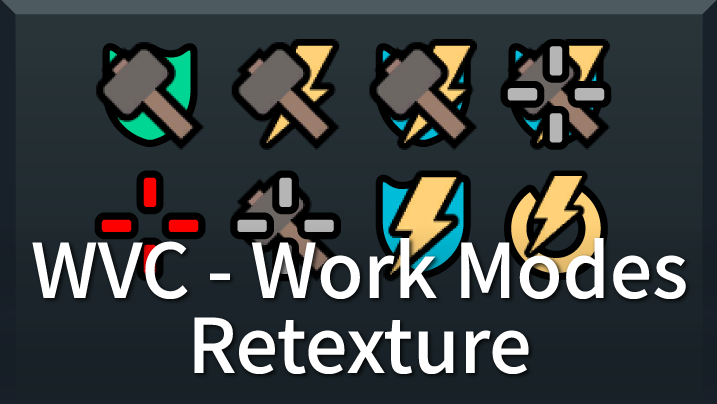
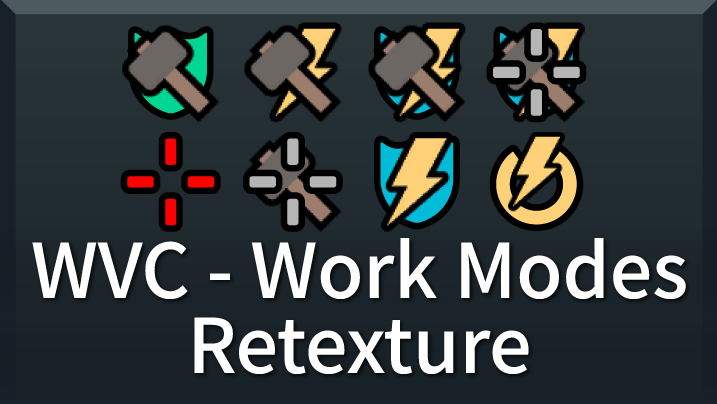
add rimsenal retexture

Changed region(s): [[0.1227, 0.0297, 0.8591, 0.7129]]

diff --git a/_posts/2021-11-30-RimsenalRetexture.md b/_posts/2021-11-30-RimsenalRetexture.md
@@ -1,0 +1,9 @@
+---
+title: "[Retexture] Human Power Generator"
+date: 2021-11-30
+category: [rimworld, mod]
+image: "/assets/images/rimworld/Rimsenal.webp"
+---
+<img src="/assets/images/rimworld/Rimsenal.gif" alt="Rimsenal benchs" width="717" height="356" loading="lazy">
+
+[https://steamcommunity.com/sharedfiles/filedetails/?id=2668988577](https://steamcommunity.com/sharedfiles/filedetails/?id=2668988577)
